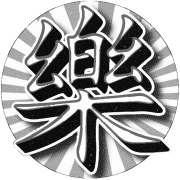
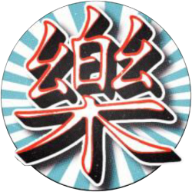
pics

diff --git a/index.html b/index.html
@@ -45,8 +45,8 @@
   		</a></div>
 
 		<div class="gallery-item">
-		<a href="http://192.168.2.189:3689/">
-    <img class="gallery-image" src="img/07.png" alt="Mucke">
+		<a href="https://desgart-design.github.io/desgart/">
+    <img class="gallery-image" src="img/11.png" alt="Blog">
   		</a></div>
 
 		<div class="gallery-item">